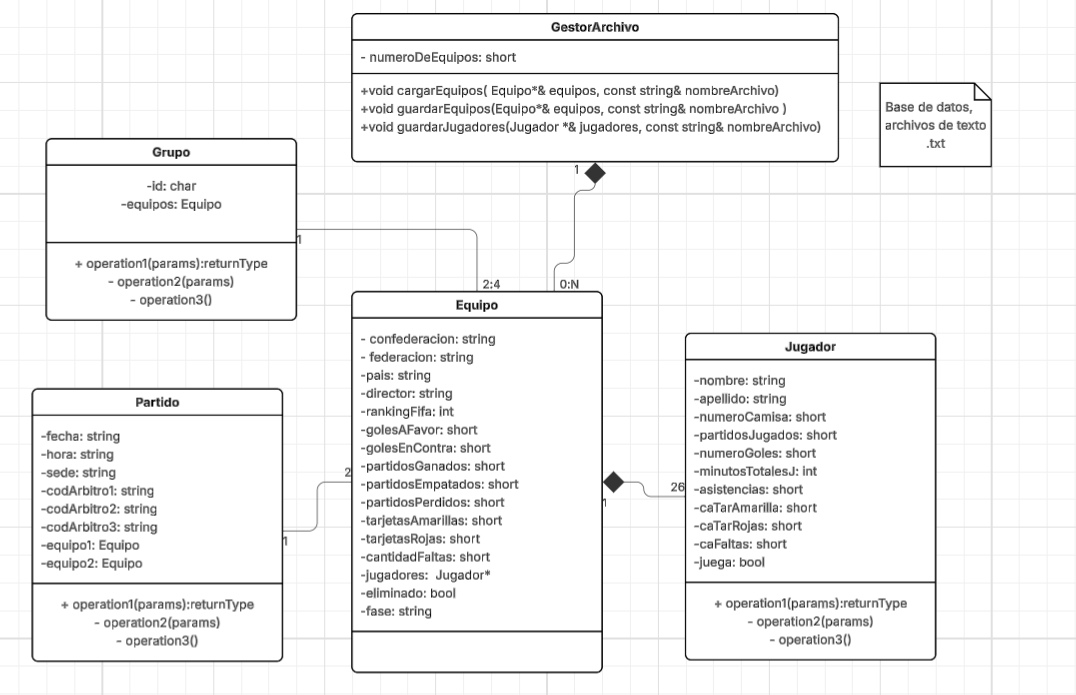
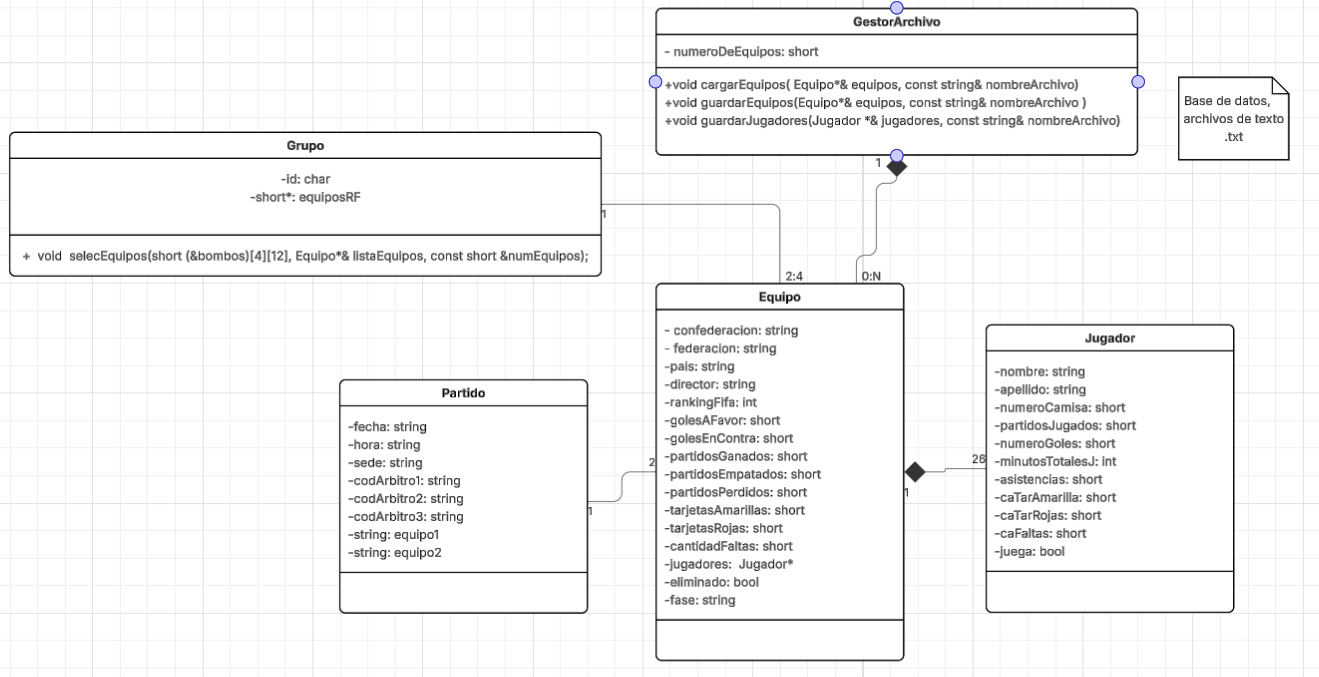
completado toda la fase II y comienzo de la III

Changed region(s): [[0.0, 0.3102, 0.9507, 0.9926], [0.0, 0.0, 0.9814, 0.3102]]

diff --git a/Desafio_2/Clases/grupo.cpp b/Desafio_2/Clases/grupo.cpp
@@ -1,6 +1,5 @@
 #include "grupo.h"
-#include <cstdlib>
-#include <ctime>
+#include <random>
 
 Grupo::Grupo() {}
 
@@ -8,26 +7,35 @@ void  Grupo::selecEquipos(short (&bombos)[4][12], Equipo *&listaEquipos, const s
 
     short  bomboFial = 0;
     short *equipos = new short[4];
-    string confederaciones[4] = {"", "", "", ""};
     short random;
 
-    while (bomboFial < 4){
+    random_device rd;
+    mt19937 gen(rd());
+    uniform_int_distribution<> dis(0, 11);
 
-        short intentos = 0;
-        while (intentos < 320){
-            intentos++;
-            random = rand() % 12;
+    while (bomboFial < 4){ // generacion aleatoria de los equipos segun este grupo
+        string confederaciones[4] = {"", "", "", ""};
+        bool   confValidas = true;
+
+        for (short c = 0; c < 4; c++){
+            if (confederaciones[c] == "") {
+                confValidas = false;
+                break;
+            }
+        }
+
+        while (!confValidas){
+            random = dis(gen);
 
             if (bombos[bomboFial][random] == -1) continue;
+
             short rankingFifa  = bombos[bomboFial][random];
-
-
             bool encontrado = false;
             bool yaExiste = false;
             short cuantosUEFA = 0;
 
             for (short c = 0; c < numEquipos; c++){
-                if (listaEquipos[c].getRankinFifa() == rankingFifa){
+                if (listaEquipos[c].getRankinFifa() == rankingFifa){          
                     confederaciones[bomboFial] = listaEquipos[c].getConfederacion();
                     encontrado = true;
                     break;
@@ -60,6 +68,24 @@ void  Grupo::selecEquipos(short (&bombos)[4][12], Equipo *&listaEquipos, const s
         }
 
         bomboFial++;
+    }
+
+    //hacer que el equipo de USA quede en el bombo 1
+    short rankingFifaUsa;
+    for (short f = 0; f < numEquipos; f++){
+        if (listaEquipos[f].getPais() == "United States"){
+            rankingFifaUsa = listaEquipos[f].getRankinFifa();
+            break;
+        }
+    }
+
+    for (short c = 0; c < 4; c++){
+        if (equipos[c] == rankingFifaUsa && c > 0){
+            short tempRanking = equipos[0];
+            equipos[0] = rankingFifaUsa;
+            equipos[c] = tempRanking;
+            break;
+        }
     }
 
     this->equiposRF = equipos;

diff --git a/Desafio_2/main.cpp b/Desafio_2/main.cpp
@@ -2,14 +2,12 @@
 #include "Clases/gestorarchivo.h"
 #include "Clases/jugador.h"
 #include "Clases/grupo.h"
-#include <cstdlib>
-#include <ctime>
+#include "Clases//partido.h"
 
 using namespace std;
 
 int main()
 {
-    srand(time(0));
 
     cout << " ============================ " << endl;
     cout << "          UdeAWorldCup                                 "  << endl;
@@ -113,6 +111,21 @@ int main()
     }
 
     // ============== III ===========================
+    //  a) Eliminatorias de grupo
+    // 6 partidos por grupos
+    short  partidosPorGrupo = 6;
+    short  diasTranscurridos = 0;
+    const string fechaInicio = "20/06/2026";
+
+    Partido* listaPartidos = new Partido[12*partidosPorGrupo];
+
+    for (short c = 0; c < partidosPorGrupo * 12; c++){
+
+    }
+
+
+
+
 
 
 

diff --git a/Desafio_2/Clases/partido.h b/Desafio_2/Clases/partido.h
@@ -5,17 +5,17 @@
 
 class Partido{
     public:
-        Partido();
+    Partido();
 
     private:
         string    fecha;
-        string    hora;
+        string    hora = "00:00";
         string    sede;
-        string    codArbitro1;
-        string    codArbitro2;
-        string    codArbitro3;
-        Equipo* equipo1;
-        Equipo* equipo2;
+        string    codArbitro1 = "codArbitro1";
+        string    codArbitro2 = "codArbitro1";
+        string    codArbitro3 = "codArbitro1";
+        short  rankingFifaequip1;
+        short  rankingFifaequip2;
 };
 
 #endif // PARTIDO_H

diff --git a/Desafio_2/Clases/grupo.h b/Desafio_2/Clases/grupo.h
@@ -9,8 +9,6 @@ class Grupo{
     Grupo();
         void  selecEquipos(short (&bombos)[4][12], Equipo*& listaEquipos, const short &numEquipos);
 
-
-        ~Grupo();
         char getId() const;
         void setId(char newId);
         Equipo *getEquipos() const;
@@ -19,11 +17,11 @@ class Grupo{
         short *getEquiposRF() const;
         void setEquiposRF(short *newEquiposRF);
 
+         ~Grupo();
     private:
         char id;
         short*  equiposRF = nullptr;
 
-        bool  verifiDifEqPerBombo();
 };
 
 #endif // GRUPO_H

diff --git a/Desafio_2/Clases/partido.cpp b/Desafio_2/Clases/partido.cpp
@@ -1,3 +1,5 @@
 #include "partido.h"
 
-Partido::Partido() {}
+Partido::Partido(){
+
+}
